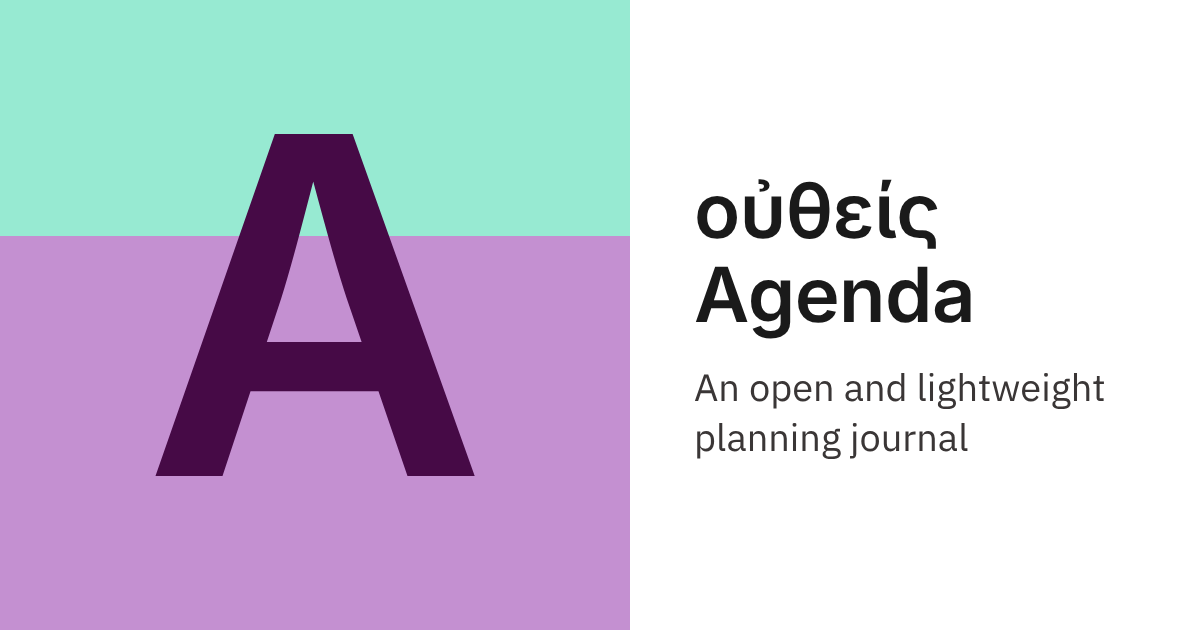
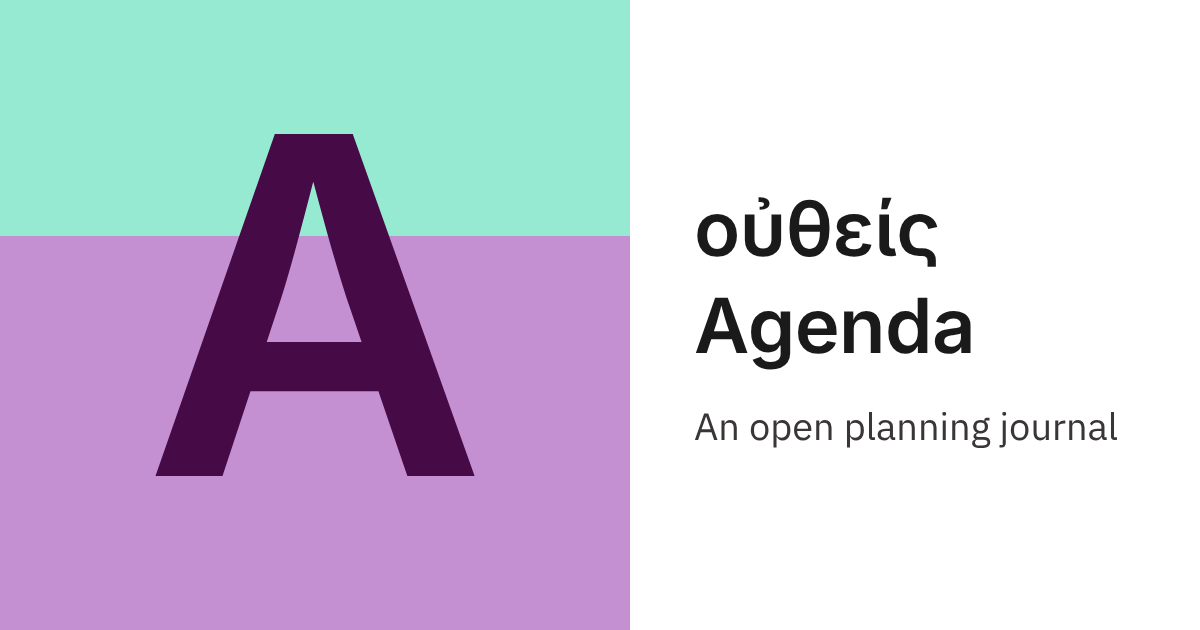
0.9.10: link preview "An open planning journal" for both themes, built from brand.json

Changed region(s): [[0.555, 0.2714, 0.925, 0.7238]]

diff --git a/clients/web/icon-src/og.html b/clients/web/icon-src/og.html
@@ -1,19 +1,30 @@
 <!DOCTYPE html><html><head><meta charset="utf-8">
-<!-- Source of clients/web/og-image.png (link preview, 1200 x 630). Render at 1200 x 630,
-     device scale 1, with Inter 600 latin next to this file (for the icon letter); the other fonts come from ../fonts. --><style>
-@font-face { font-family:Inter; font-weight:600; src:url(inter-latin-600-normal.woff2); }
+<!-- Source of the link preview (1200 x 630), rendered by render.mjs into icons/<theme>-og.png:
+     ?t=outheis|ergonoi. The icon on the left, name and line on the right; build.py copies the
+     one of the default theme to og-image.png. Fonts from ../fonts (OFL). -->
+<style>
+@font-face { font-family:Inter; font-weight:100 900; src:url(../fonts/inter-latin-wght.woff2); unicode-range:U+0000-00FF; }
+@font-face { font-family:Inter; font-weight:100 900; src:url(../fonts/inter-greek-wght.woff2); unicode-range:U+0370-03FF; }
+@font-face { font-family:Inter; font-weight:100 900; src:url(../fonts/inter-greek-ext-wght.woff2); unicode-range:U+1F00-1FFF; }
+@font-face { font-family:Mona; font-weight:700; src:url(../fonts/mona-sans-mono-bold-latin.woff2); }
 @font-face { font-family:Plex; font-weight:100 700; src:url(../fonts/ibm-plex-sans-variable.woff2); }
-@font-face { font-family:InterV; font-weight:100 900; src:url(../fonts/inter-latin-wght.woff2); unicode-range:U+0000-00FF; }
-@font-face { font-family:InterV; font-weight:100 900; src:url(../fonts/inter-greek-wght.woff2); unicode-range:U+0370-03FF; }
-@font-face { font-family:InterV; font-weight:100 900; src:url(../fonts/inter-greek-ext-wght.woff2); unicode-range:U+1F00-1FFF; }
-html,body{margin:0}
-.c{width:1200px;height:630px;display:flex;background:#fff;font-family:Plex, "Noto Sans", "DejaVu Sans", sans-serif}
-.icon{width:630px;height:630px;position:relative;flex:none;background:linear-gradient(#97EAD2 0 37.5%, #C490D1 37.5% 100%)}
-.icon span{position:absolute;inset:0;display:flex;align-items:center;justify-content:center;font:600 470px/1 Inter;color:#460A46;padding-bottom:20px}
-.t{padding:0 64px;display:flex;flex-direction:column;justify-content:center;gap:26px}
-.t h1{margin:0;font-family:InterV;font-weight:600;font-size:76px;letter-spacing:-.5px;color:#1A1A1A;line-height:1.1}
-.t p{margin:0;font-size:38px;line-height:1.3;color:#3A3636;font-weight:400}
-
-</style></head><body><div class="c"><div class="icon"><span>A</span></div><div class="t">
-<h1>οὐθείς Agenda</h1>
-<p>An open and lightweight<br>planning journal</p></div></div></body></html>
+html, body { margin:0; }
+.c { width:1200px; height:630px; display:flex; background:#fff; font-family:Plex, sans-serif; }
+.icon { width:630px; height:630px; position:relative; flex:none; }
+.icon span { position:absolute; inset:0; display:flex; align-items:center; justify-content:center; line-height:1; }
+.outheis .icon { background:linear-gradient(#97EAD2 0 37.5%, #C490D1 37.5% 100%); }
+.outheis .icon span { font:600 470px/1 Inter; color:#460A46; padding-bottom:20px; }
+.ergonoi .icon { background:linear-gradient(#BFF2E3, #97EAD2); }
+.ergonoi .icon span { font:700 525px/1 Mona; color:#1A1A1A; }
+.t { padding:0 64px; display:flex; flex-direction:column; justify-content:center; gap:26px; }
+.t h1 { margin:0; font-family:Inter; font-weight:600; font-size:76px; letter-spacing:-.5px; color:#1A1A1A; line-height:1.28; }
+.t h1 .bw { font-family:Mona; font-weight:700; letter-spacing:.025em; }
+.t p { margin:0; font-size:38px; line-height:1.3; color:#3A3636; }
+</style></head><body><div class="c" id="c"><div class="icon"><span>A</span></div><div class="t">
+<h1 id="name">οὐθείς<br>Agenda</h1>
+<p>An open planning journal</p></div></div>
+<script>
+const t = new URLSearchParams(location.search).get("t") || "outheis";
+document.getElementById("c").classList.add(t);
+if (t === "ergonoi") document.getElementById("name").innerHTML = '<span class="bw">ergonoi</span><br>Agenda';
+</script></body></html>

diff --git a/clients/web/index.html b/clients/web/index.html
@@ -14,10 +14,10 @@
 <link rel="icon" type="image/png" sizes="32x32" href="favicon-32.png">
 <title>οὐθείς Agenda</title>
 <!-- Link preview (Open Graph). The service replaces the origin placeholder with the address the page was requested from. -->
-<meta name="description" content="An open and lightweight planning journal, cross-device and confidential by design.">
+<meta name="description" content="An open planning journal, lightweight, cross-device and confidential by design.">
 <meta property="og:type" content="website">
 <meta property="og:title" content="οὐθείς Agenda">
-<meta property="og:description" content="An open and lightweight planning journal, cross-device and confidential by design.">
+<meta property="og:description" content="An open planning journal, lightweight, cross-device and confidential by design.">
 <meta property="og:url" content="@@ORIGIN@@/">
 <meta property="og:image" content="@@ORIGIN@@/og-image.png">
 <meta property="og:image:width" content="1200">
@@ -892,7 +892,7 @@
     </div>
   </div>
   <footer id="appfoot">
-    <span class="ver">v0.9.9</span>
+    <span class="ver">v0.9.10</span>
     <a href="#" id="aboutLink">About</a>
     <a href="https://outheis-labs.github.io/outheis-agenda/" target="_blank" rel="noopener">Documentation <svg width="7" height="7" viewBox="0 0 10 10" fill="none" aria-hidden="true"><path d="M1 9L9 1M9 1H3M9 1V7" stroke="currentColor" stroke-width="1.2" stroke-linecap="round" stroke-linejoin="round"/></svg></a>
   </footer>
@@ -951,7 +951,7 @@
     <strong id="aboutName">οὐθείς Agenda</strong>
     <p id="aboutProject">οὐθείς Agenda is an <b>ergonoi</b> project:</p>
     <p style="margin-top:14px">Technology is potential. Accessibility makes it matter.</p>
-    <p class="hint">Version 0.9.9 · outheis-labs</p>
+    <p class="hint">Version 0.9.10 · outheis-labs</p>
     <div class="btnrow" style="justify-content:flex-end"><button class="primary">Close</button></div>
   </form>
 </dialog>
@@ -5606,7 +5606,7 @@ $("btnLogSave").onclick = () => {
   setTimeout(() => URL.revokeObjectURL(a.href), 5000);
 };
 $("btnLogFlush").onclick = () => { LS.removeItem("agenda.log"); log("log flushed"); renderLogRow(); };
-function appInfo() { return "version 0.9.9, " + location.origin + ", PIN " + (Vault.mode || "not chosen") + ", " + navigator.userAgent; }
+function appInfo() { return "version 0.9.10, " + location.origin + ", PIN " + (Vault.mode || "not chosen") + ", " + navigator.userAgent; }
 function renderLogRow() {
   $("cfgLog").checked = logOn();
   // The experiment may have been switched on on another device: then this browser does
@@ -5814,7 +5814,7 @@ $("dlgNote").addEventListener("close", () => {
 // older than that only reads the journal.
 // ---------------------------------------------------------------------------
 
-const APP_VERSION = "0.9.9";
+const APP_VERSION = "0.9.10";
 const NOTE_FORMAT = "0.2.0"; // entries with {{…}}
 const FACETS_FORMAT = "0.3.0"; // entries with more than one facet or topic
 const BINDING_FORMAT = "0.4.0"; // #type, #skip, "Journal type:" (older clients would carry fixed entries or show skipped ones)

diff --git a/clients/web/index.src.html b/clients/web/index.src.html
@@ -14,10 +14,10 @@
 <link rel="icon" type="image/png" sizes="32x32" href="favicon-32.png">
 <title>@@BRAND_NAME@@</title>
 <!-- Link preview (Open Graph). The service replaces the origin placeholder with the address the page was requested from. -->
-<meta name="description" content="An open and lightweight planning journal, cross-device and confidential by design.">
+<meta name="description" content="An open planning journal, lightweight, cross-device and confidential by design.">
 <meta property="og:type" content="website">
 <meta property="og:title" content="@@BRAND_NAME@@">
-<meta property="og:description" content="An open and lightweight planning journal, cross-device and confidential by design.">
+<meta property="og:description" content="An open planning journal, lightweight, cross-device and confidential by design.">
 <meta property="og:url" content="@@ORIGIN@@/">
 <meta property="og:image" content="@@ORIGIN@@/og-image.png">
 <meta property="og:image:width" content="1200">

diff --git a/clients/web/sw.js b/clients/web/sw.js
@@ -1,5 +1,5 @@
 // Offline shell: the app itself is cached; API requests always go to the network.
-const CACHE = "agenda-shell-0.9.9-b6b5a367";
+const CACHE = "agenda-shell-0.9.10-0c135eeb";
 const SHELL = ["./", "index.html", "manifest.webmanifest", "icon-192.png", "icon-512.png", "apple-touch-icon.png", "favicon-32.png"];
 
 self.addEventListener("install", e => {

diff --git a/clients/web/build.py b/clients/web/build.py
@@ -49,7 +49,7 @@ manifest = {
 }
 (here / "manifest.webmanifest").write_text(json.dumps(manifest, ensure_ascii=False, indent=2) + "\n", encoding="utf-8")
 icons = here / "icon-src" / "icons"
-for src_name, dst in ((f"{theme}-192.png", "icon-192.png"), (f"{theme}-512.png", "icon-512.png"), (f"{theme}-180.png", "apple-touch-icon.png"), (f"{theme}-32.png", "favicon-32.png"), (f"{theme}.ico", "favicon.ico")):
+for src_name, dst in ((f"{theme}-192.png", "icon-192.png"), (f"{theme}-512.png", "icon-512.png"), (f"{theme}-180.png", "apple-touch-icon.png"), (f"{theme}-32.png", "favicon-32.png"), (f"{theme}.ico", "favicon.ico"), (f"{theme}-og.png", "og-image.png")):
     shutil.copy(icons / src_name, here / dst)
 # The service reports the same version at GET /health (server/main.go).
 (here / "version.txt").write_text(version + "\n", encoding="utf-8")
